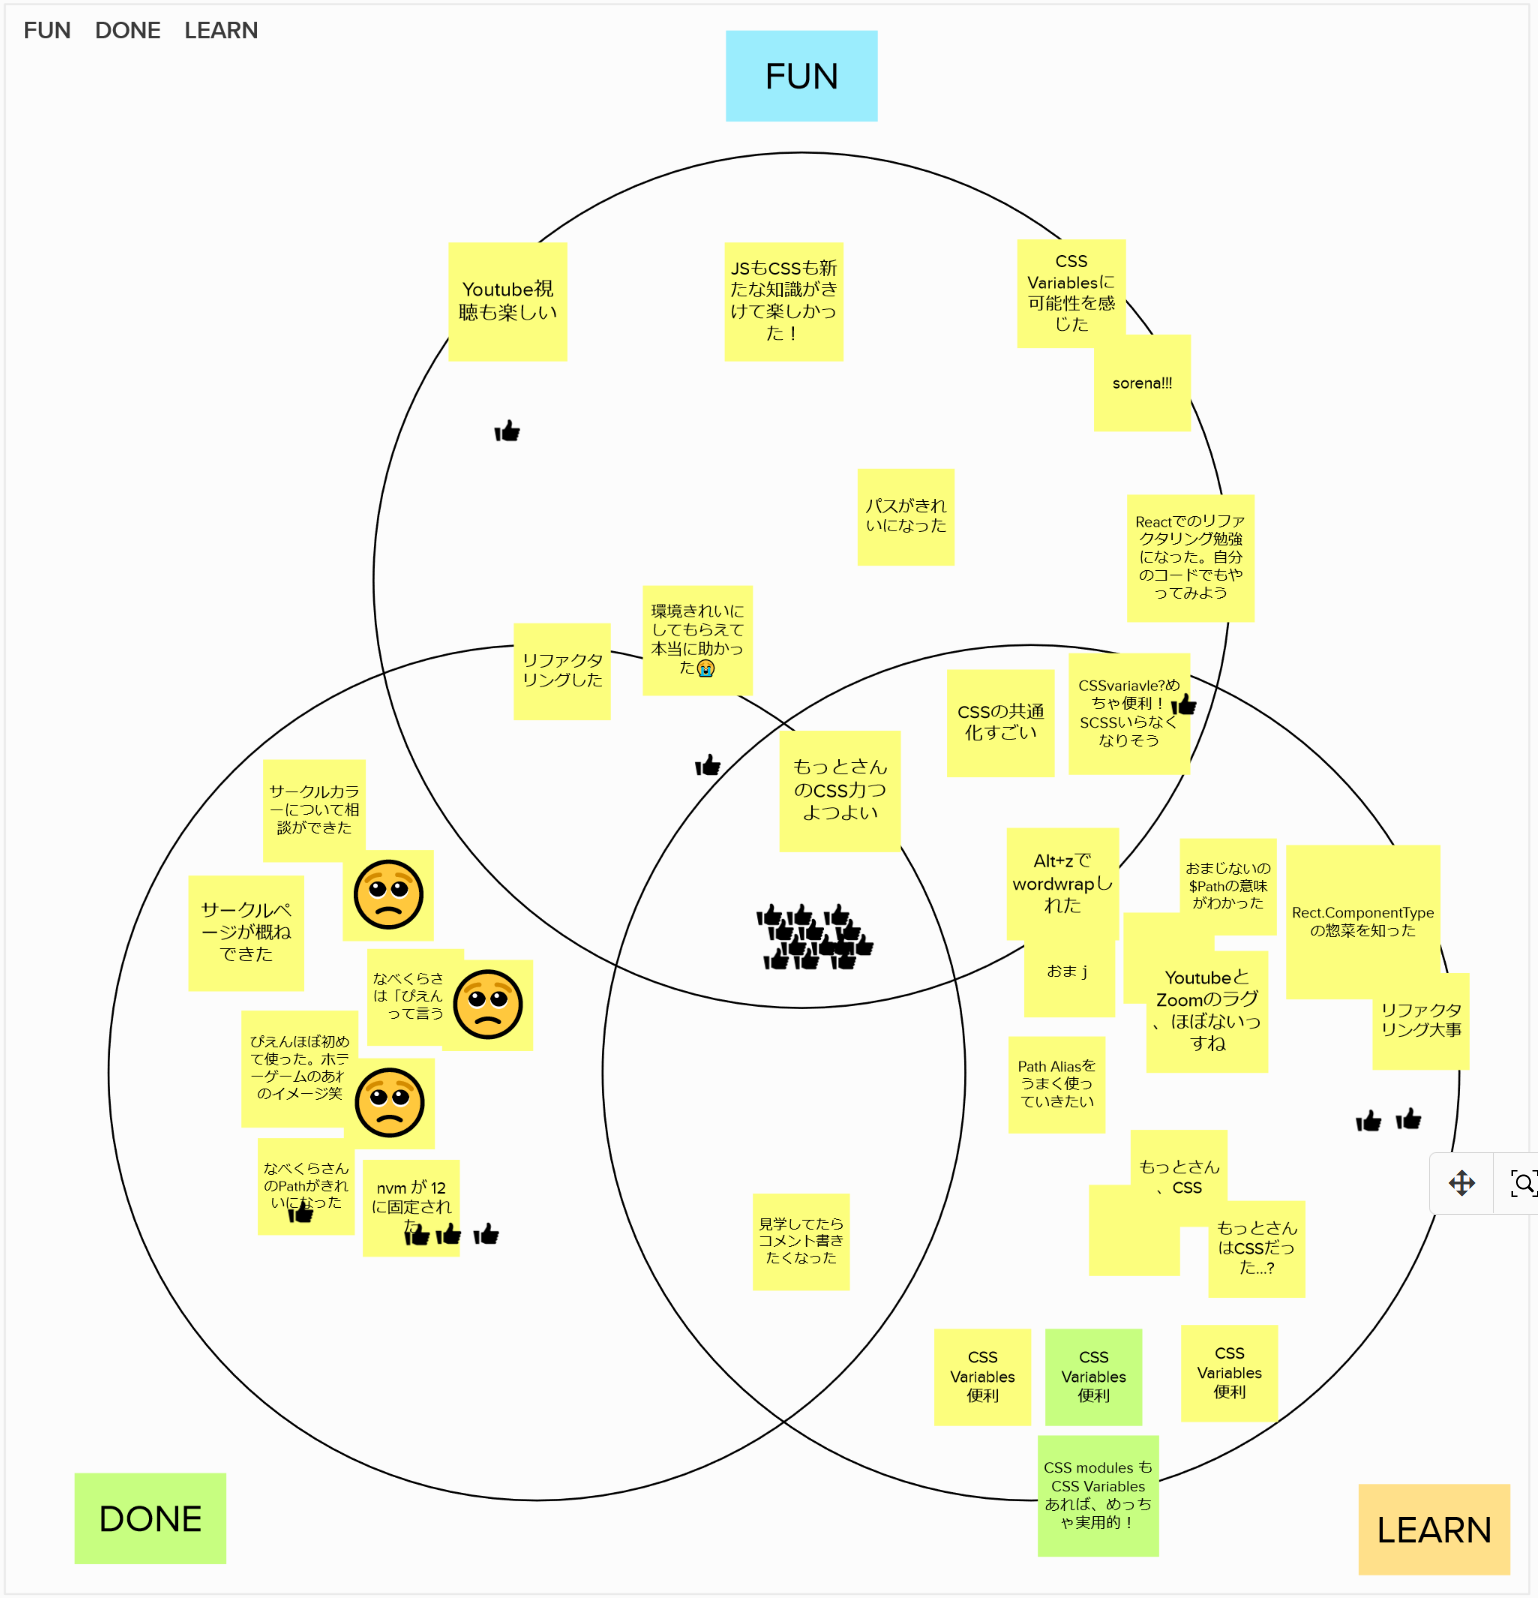
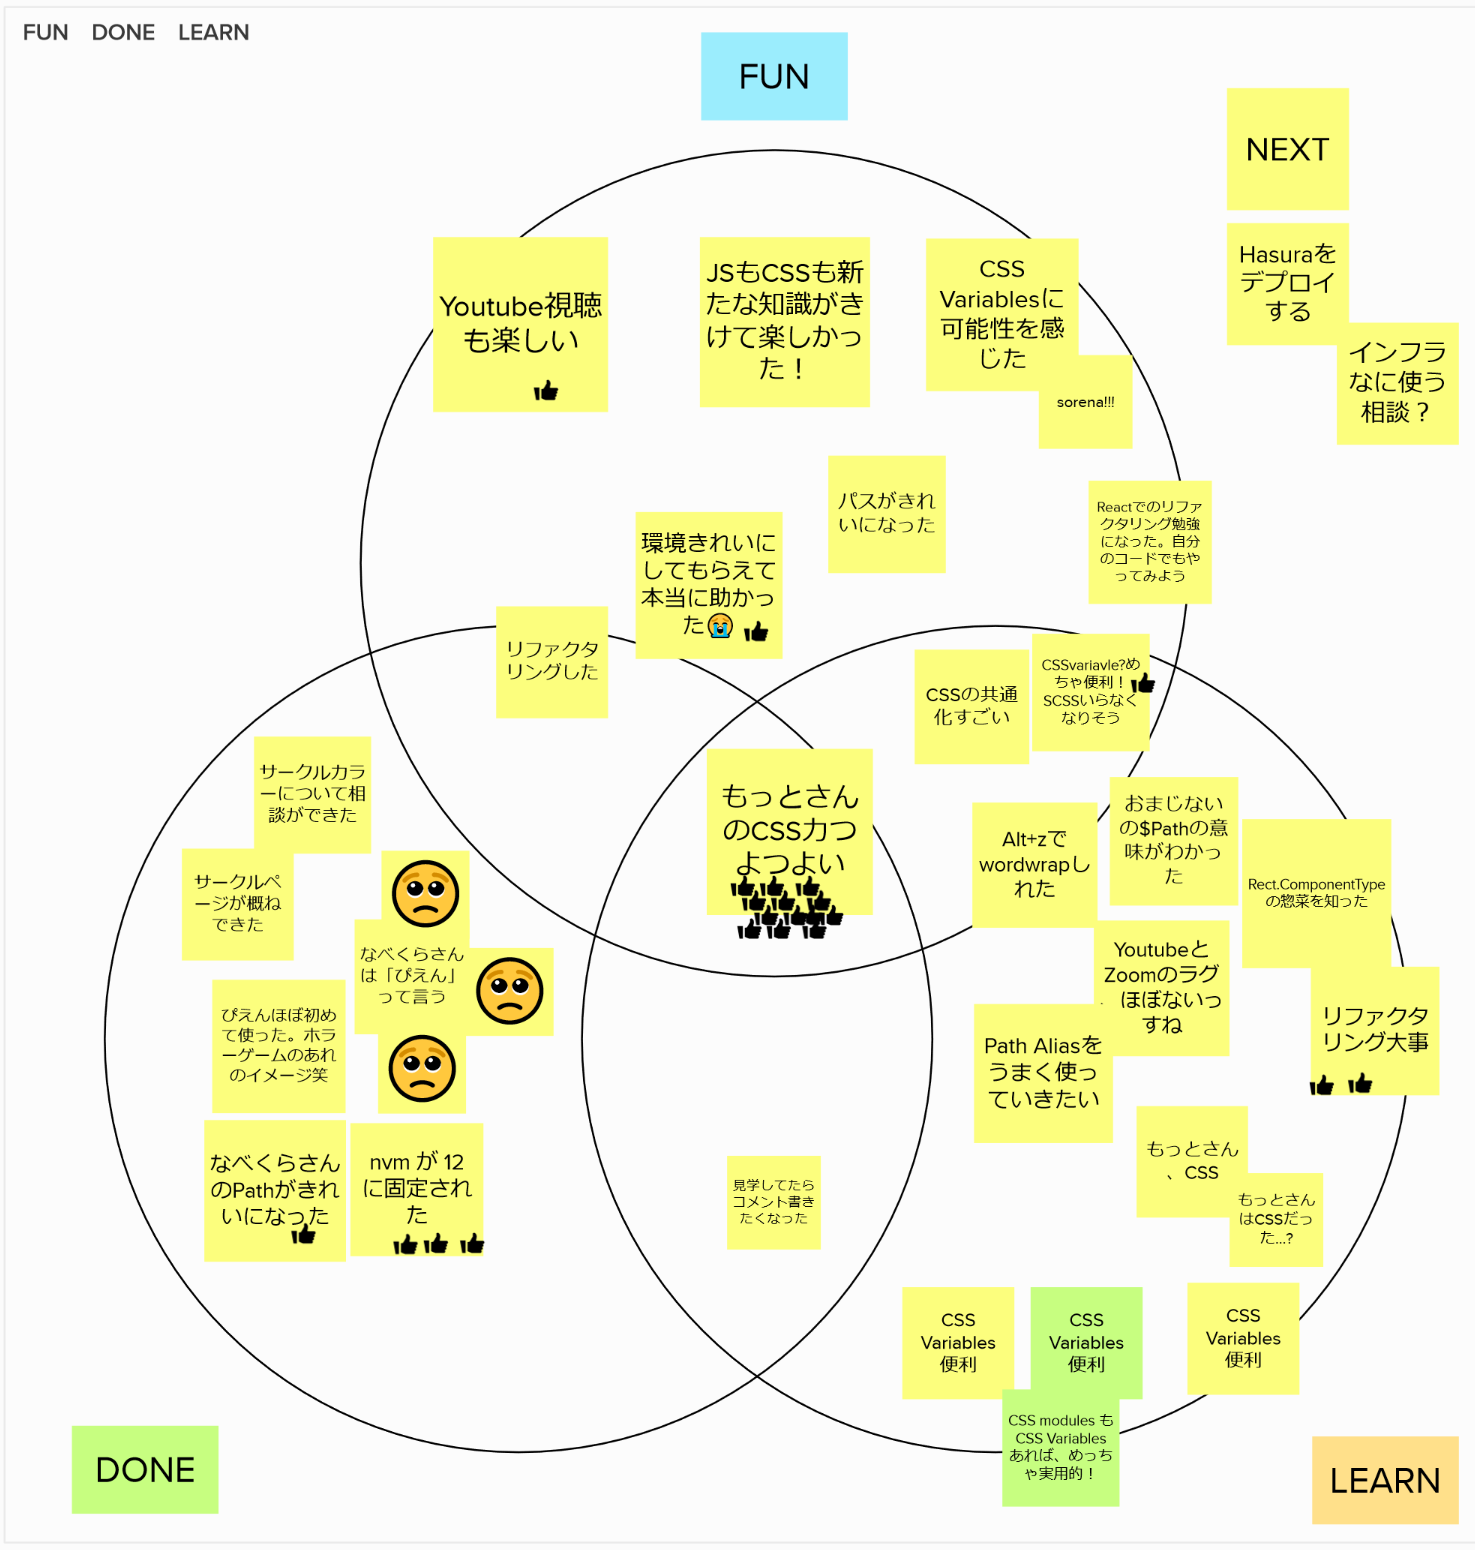
18日追加

diff --git a/chap-mob-0716.md b/chap-mob-0716.md
@@ -52,7 +52,12 @@
 
 一方で、わからん事はその場でわからんと聞く、モブに関する質問は全員で手を止めて解決する、などの優しい共通認識も共有されました。
 
-こういうコミュニケーション、相談がきちんとなされること自体、このチームが健全である証拠かもしれません。任意で集まった
+モブワーク中に質問していいのかどうかという点についても議論になりました。割り込むべきなのかといった、脱線するべきなのか、といった心理的障壁があります。特にレベル差があって、そういうものなのか、と思ってしまうのですが、説明する側にとっても、みんながわからないポイントを共有することができます。説明を聞く側としても、同じ疑問を持つことは少なくないでしょうし、あらためて説明を聞くことで理解が深まることもあるでしょう。
+
+説明してくれる人を利用して技術を盗み、別のところで寄与できるなら、いわゆるWin-winというやつですね。
+
+こういうコミュニケーション、相談がきちんとなされること自体、このチームが健全である証拠かもしれません。任意で集まったにもかかわらず、素敵なチームだと思います。
+
 
 ## まとめ
 
@@ -67,3 +72,7 @@
 ![7月16日のFun done learn](chap-mob-0716/0716fundonelearn.png?scale=0.8)
 
 また、モブにおけるグランドルールに関する議論が実装とは別の点での学びでした。モブワークにおいて、よかれとおもいつつちょっとやってしまう、ということの是非について再認識した本日のモブワークでした。
+
+そろそろインフラどうするか考えないといけないですね。DBとしてポスグレ、Hasura、Node.jsが必要ですから、次かその次にインフラ考える必要があるかなと考えます。
+
+DBから引っ張ってくるというのはMVPの必要条件っぽいですね。もちろん、広報としては静的ページを出すのでOKですから、そろそろどういう出していくのかという戦略を考えていきましょう。

diff --git a/chap-mob-0718.md b/chap-mob-0718.md
@@ -1,0 +1,5 @@
+# モブ11回目(7月18日)
+
+11回目のモブです。
+
+![7月18日のFun done learn](chap-mob-0718/0718fundonelearn.png?scale=0.8)
